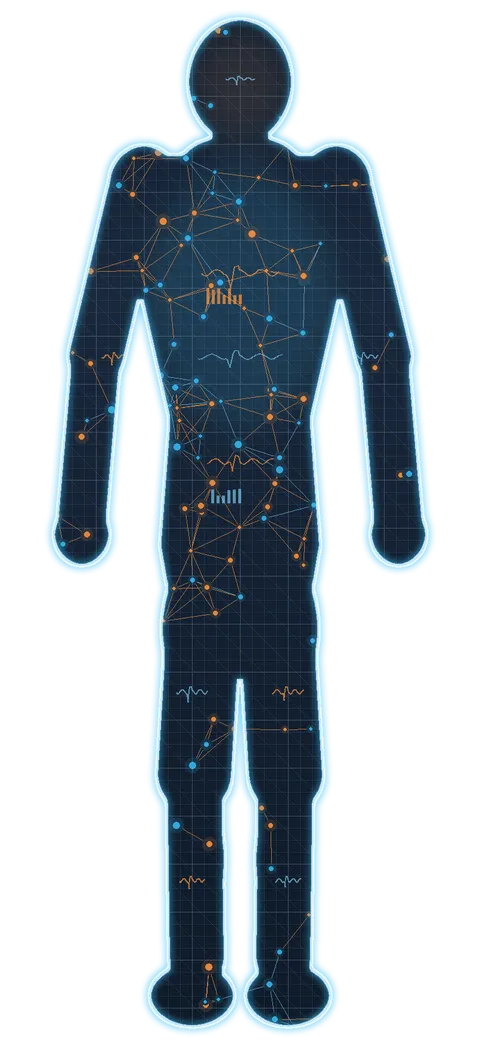
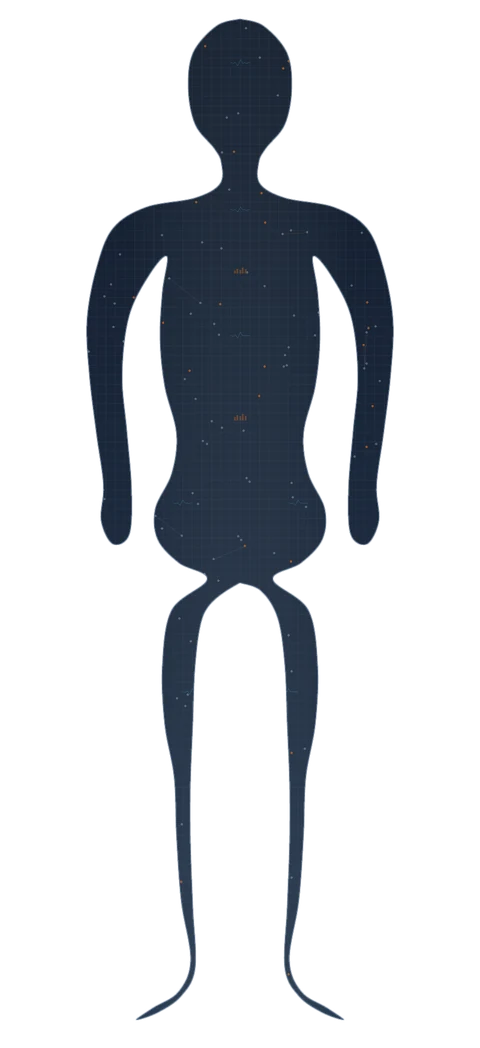
Replace HDM LEGO figure with anatomical human silhouette.
Rebuild the WebP mask from a smooth mirrored body path (egg head, neck,
shoulders, waist taper, hips, articulated limbs) with clinical slate data
fill and thin edge, and realign category hotspots to the new contour.

Changed region(s): [[0.0938, 0.0, 0.9062, 1.0], [0.4688, 0.0611, 0.5312, 0.1221]]

diff --git a/src/components/home/humanDataModel/bodyCubes.ts b/src/components/home/humanDataModel/bodyCubes.ts
@@ -14,45 +14,46 @@ export interface BodyCube {
 
 /**
  * Equal cells; L/R symmetric.
- * Horizontal span matches the filled human contour (arms wider mid-body, legs inward).
+ * Positions tuned to the smooth anatomical WebP contour
+ * (egg head, neck, sloping shoulders, waist taper, hip flare, thicker limbs).
  */
 export const BODY_CUBES: BodyCube[] = [
   // Head / neck
-  { c: 2, r: 0, left: 42.2, top: 3.2, sizeW: 15.6, sizeH: 7.2 },
-  { c: 2, r: 1, left: 42.2, top: 11.0, sizeW: 15.6, sizeH: 7.2 },
+  { c: 2, r: 0, left: 42.2, top: 3.4, sizeW: 15.6, sizeH: 7.2 },
+  { c: 2, r: 1, left: 42.2, top: 10.4, sizeW: 15.6, sizeH: 7.2 },
   // Shoulders / upper chest
-  { c: 1, r: 2, left: 28.6, top: 19.0, sizeW: 15.6, sizeH: 7.2 },
-  { c: 2, r: 2, left: 42.2, top: 19.0, sizeW: 15.6, sizeH: 7.2 },
-  { c: 3, r: 2, left: 55.8, top: 19.0, sizeW: 15.6, sizeH: 7.2 },
+  { c: 1, r: 2, left: 29.0, top: 18.4, sizeW: 15.6, sizeH: 7.2 },
+  { c: 2, r: 2, left: 42.2, top: 18.4, sizeW: 15.6, sizeH: 7.2 },
+  { c: 3, r: 2, left: 55.4, top: 18.4, sizeW: 15.6, sizeH: 7.2 },
   // Mid chest
-  { c: 1, r: 3, left: 28.6, top: 27.0, sizeW: 15.6, sizeH: 7.2 },
-  { c: 2, r: 3, left: 42.2, top: 27.0, sizeW: 15.6, sizeH: 7.2 },
-  { c: 3, r: 3, left: 55.8, top: 27.0, sizeW: 15.6, sizeH: 7.2 },
+  { c: 1, r: 3, left: 29.0, top: 26.4, sizeW: 15.6, sizeH: 7.2 },
+  { c: 2, r: 3, left: 42.2, top: 26.4, sizeW: 15.6, sizeH: 7.2 },
+  { c: 3, r: 3, left: 55.4, top: 26.4, sizeW: 15.6, sizeH: 7.2 },
   // Arms + torso
-  { c: 0, r: 4, left: 14.8, top: 35.2, sizeW: 15.6, sizeH: 7.2 },
-  { c: 1, r: 4, left: 28.6, top: 35.2, sizeW: 15.6, sizeH: 7.2 },
-  { c: 2, r: 4, left: 42.2, top: 35.2, sizeW: 15.6, sizeH: 7.2 },
-  { c: 3, r: 4, left: 55.8, top: 35.2, sizeW: 15.6, sizeH: 7.2 },
-  { c: 4, r: 4, left: 69.6, top: 35.2, sizeW: 15.6, sizeH: 7.2 },
-  { c: 0, r: 5, left: 13.2, top: 43.5, sizeW: 15.6, sizeH: 7.2 },
-  { c: 1, r: 5, left: 28.6, top: 43.5, sizeW: 15.6, sizeH: 7.2 },
-  { c: 2, r: 5, left: 42.2, top: 43.5, sizeW: 15.6, sizeH: 7.2 },
-  { c: 3, r: 5, left: 55.8, top: 43.5, sizeW: 15.6, sizeH: 7.2 },
-  { c: 4, r: 5, left: 71.2, top: 43.5, sizeW: 15.6, sizeH: 7.2 },
+  { c: 0, r: 4, left: 15.3, top: 34.4, sizeW: 15.6, sizeH: 7.2 },
+  { c: 1, r: 4, left: 29.0, top: 34.4, sizeW: 15.6, sizeH: 7.2 },
+  { c: 2, r: 4, left: 42.2, top: 34.4, sizeW: 15.6, sizeH: 7.2 },
+  { c: 3, r: 4, left: 55.4, top: 34.4, sizeW: 15.6, sizeH: 7.2 },
+  { c: 4, r: 4, left: 69.0, top: 34.4, sizeW: 15.6, sizeH: 7.2 },
+  { c: 0, r: 5, left: 14.4, top: 42.4, sizeW: 15.6, sizeH: 7.2 },
+  { c: 1, r: 5, left: 29.0, top: 42.4, sizeW: 15.6, sizeH: 7.2 },
+  { c: 2, r: 5, left: 42.2, top: 42.4, sizeW: 15.6, sizeH: 7.2 },
+  { c: 3, r: 5, left: 55.4, top: 42.4, sizeW: 15.6, sizeH: 7.2 },
+  { c: 4, r: 5, left: 69.9, top: 42.4, sizeW: 15.6, sizeH: 7.2 },
   // Waist / pelvis
-  { c: 1, r: 6, left: 30.2, top: 52.0, sizeW: 15.6, sizeH: 7.2 },
-  { c: 2, r: 6, left: 42.2, top: 52.0, sizeW: 15.6, sizeH: 7.2 },
-  { c: 3, r: 6, left: 54.2, top: 52.0, sizeW: 15.6, sizeH: 7.2 },
+  { c: 1, r: 6, left: 30.6, top: 50.8, sizeW: 15.6, sizeH: 7.2 },
+  { c: 2, r: 6, left: 42.2, top: 50.8, sizeW: 15.6, sizeH: 7.2 },
+  { c: 3, r: 6, left: 53.8, top: 50.8, sizeW: 15.6, sizeH: 7.2 },
   // Thighs
-  { c: 1, r: 7, left: 31.4, top: 60.5, sizeW: 15.6, sizeH: 7.2 },
-  { c: 2, r: 7, left: 42.2, top: 60.5, sizeW: 15.6, sizeH: 7.2 },
-  { c: 3, r: 7, left: 53.0, top: 60.5, sizeW: 15.6, sizeH: 7.2 },
-  { c: 1, r: 8, left: 32.0, top: 69.0, sizeW: 15.6, sizeH: 7.2 },
-  { c: 2, r: 8, left: 42.2, top: 69.0, sizeW: 15.6, sizeH: 7.2 },
-  { c: 3, r: 8, left: 52.4, top: 69.0, sizeW: 15.6, sizeH: 7.2 },
+  { c: 1, r: 7, left: 31.4, top: 59.2, sizeW: 15.6, sizeH: 7.2 },
+  { c: 2, r: 7, left: 42.2, top: 59.2, sizeW: 15.6, sizeH: 7.2 },
+  { c: 3, r: 7, left: 53.0, top: 59.2, sizeW: 15.6, sizeH: 7.2 },
+  { c: 1, r: 8, left: 31.4, top: 67.6, sizeW: 15.6, sizeH: 7.2 },
+  { c: 2, r: 8, left: 42.2, top: 67.6, sizeW: 15.6, sizeH: 7.2 },
+  { c: 3, r: 8, left: 53.0, top: 67.6, sizeW: 15.6, sizeH: 7.2 },
   // Lower legs / feet
-  { c: 1, r: 9, left: 32.6, top: 78.0, sizeW: 15.6, sizeH: 7.2 },
-  { c: 3, r: 9, left: 51.8, top: 78.0, sizeW: 15.6, sizeH: 7.2 },
-  { c: 1, r: 10, left: 33.0, top: 87.0, sizeW: 15.6, sizeH: 7.2 },
-  { c: 3, r: 10, left: 51.4, top: 87.0, sizeW: 15.6, sizeH: 7.2 },
+  { c: 1, r: 9, left: 30.4, top: 76.4, sizeW: 15.6, sizeH: 7.2 },
+  { c: 3, r: 9, left: 53.9, top: 76.4, sizeW: 15.6, sizeH: 7.2 },
+  { c: 1, r: 10, left: 30.4, top: 85.6, sizeW: 15.6, sizeH: 7.2 },
+  { c: 3, r: 10, left: 53.9, top: 85.6, sizeW: 15.6, sizeH: 7.2 },
 ];

diff --git a/src/components/home/humanDataModel/HumanSilhouette.tsx b/src/components/home/humanDataModel/HumanSilhouette.tsx
@@ -280,8 +280,8 @@ export default function HumanSilhouette({ dark, onSelectCategory }: Props) {
 
         <img
           key={dark ? 'hdm-dark' : 'hdm-light'}
-          src={`${dark ? HUMAN_SRC_DARK : HUMAN_SRC_LIGHT}?v=12`}
-          srcSet={`${dark ? HUMAN_SRC_DARK_480 : HUMAN_SRC_LIGHT_480}?v=12 480w, ${dark ? HUMAN_SRC_DARK : HUMAN_SRC_LIGHT}?v=12 800w`}
+          src={`${dark ? HUMAN_SRC_DARK : HUMAN_SRC_LIGHT}?v=13`}
+          srcSet={`${dark ? HUMAN_SRC_DARK_480 : HUMAN_SRC_LIGHT_480}?v=13 480w, ${dark ? HUMAN_SRC_DARK : HUMAN_SRC_LIGHT}?v=13 800w`}
           sizes="(max-width: 640px) 48vw, min(52vw, 728px)"
           alt=""
           width={HUMAN_W}
@@ -291,20 +291,20 @@ export default function HumanSilhouette({ dark, onSelectCategory }: Props) {
           className="pointer-events-none absolute inset-0 z-10 h-full w-full object-contain select-none transition-[filter,opacity] duration-200 ease-out"
           style={{
             filter: dark
-              ? 'brightness(1.02) contrast(1.06)'
-              : 'brightness(1.01) contrast(1.04)',
+              ? 'brightness(1.01) contrast(1.04)'
+              : 'brightness(1.0) contrast(1.03)',
           }}
           draggable={false}
           aria-hidden
         />
 
-        {/* Subtle body wash so limbs stay readable under hotspots */}
+        {/* Soft clinical wash — keeps limbs readable under hotspots without neon cast */}
         <div
           className="pointer-events-none absolute inset-0 z-[11]"
           style={{
             background: dark
-              ? 'radial-gradient(ellipse 42% 70% at 50% 42%, rgba(56,189,248,0.08), transparent 72%)'
-              : 'radial-gradient(ellipse 42% 70% at 50% 42%, rgba(14,165,233,0.06), transparent 72%)',
+              ? 'radial-gradient(ellipse 42% 70% at 50% 42%, rgba(148,163,184,0.06), transparent 72%)'
+              : 'radial-gradient(ellipse 42% 70% at 50% 42%, rgba(71,85,105,0.05), transparent 72%)',
           }}
           aria-hidden
         />
